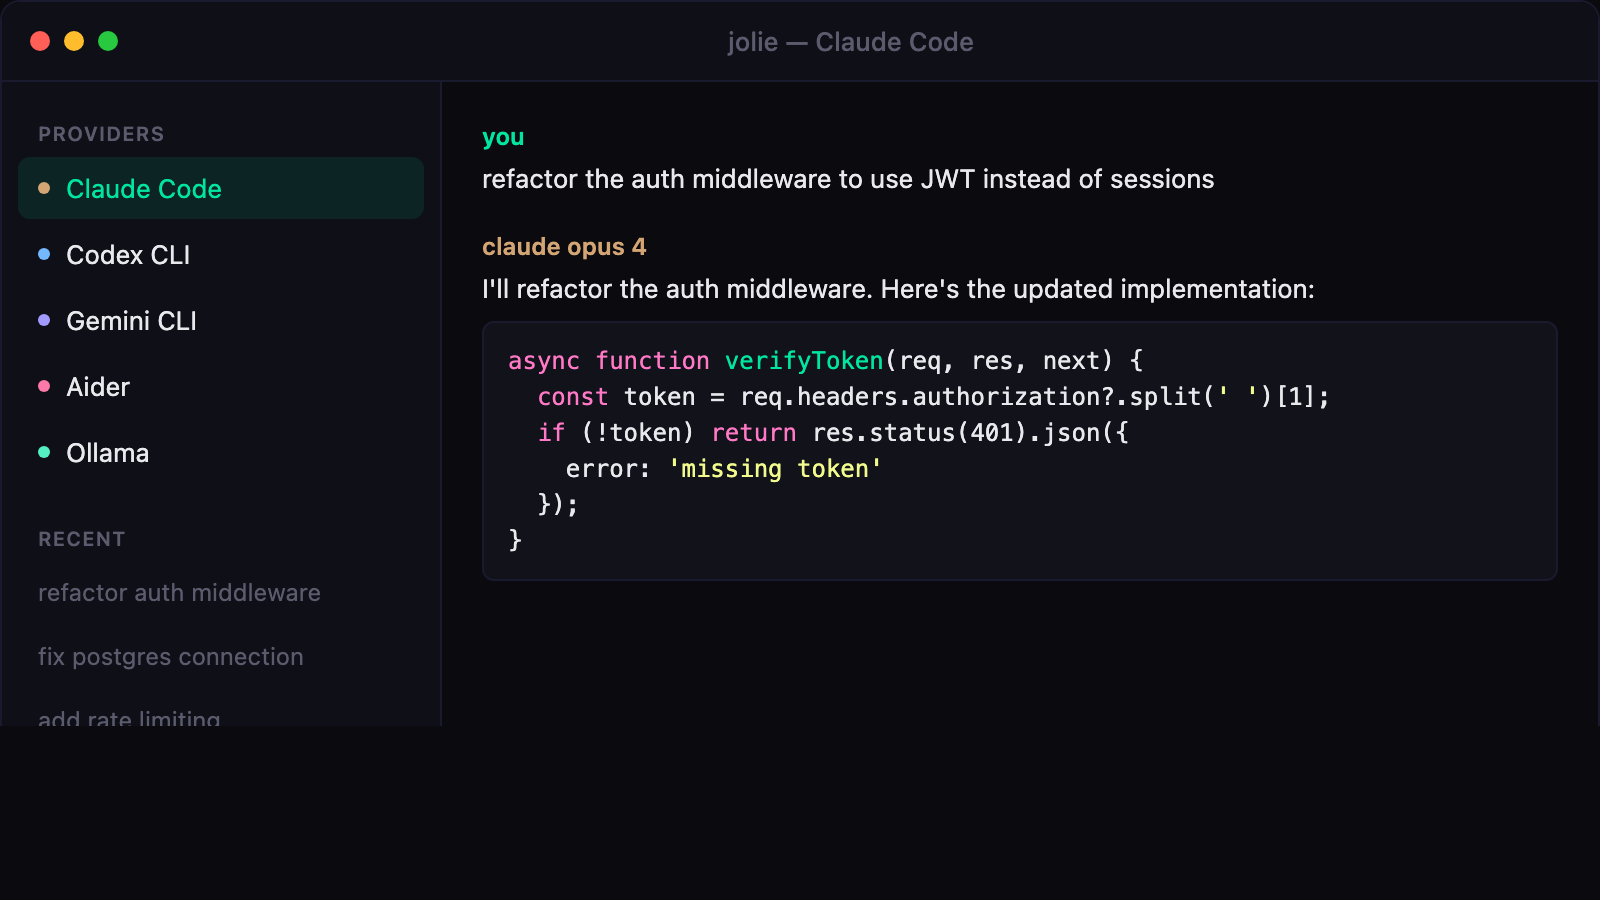
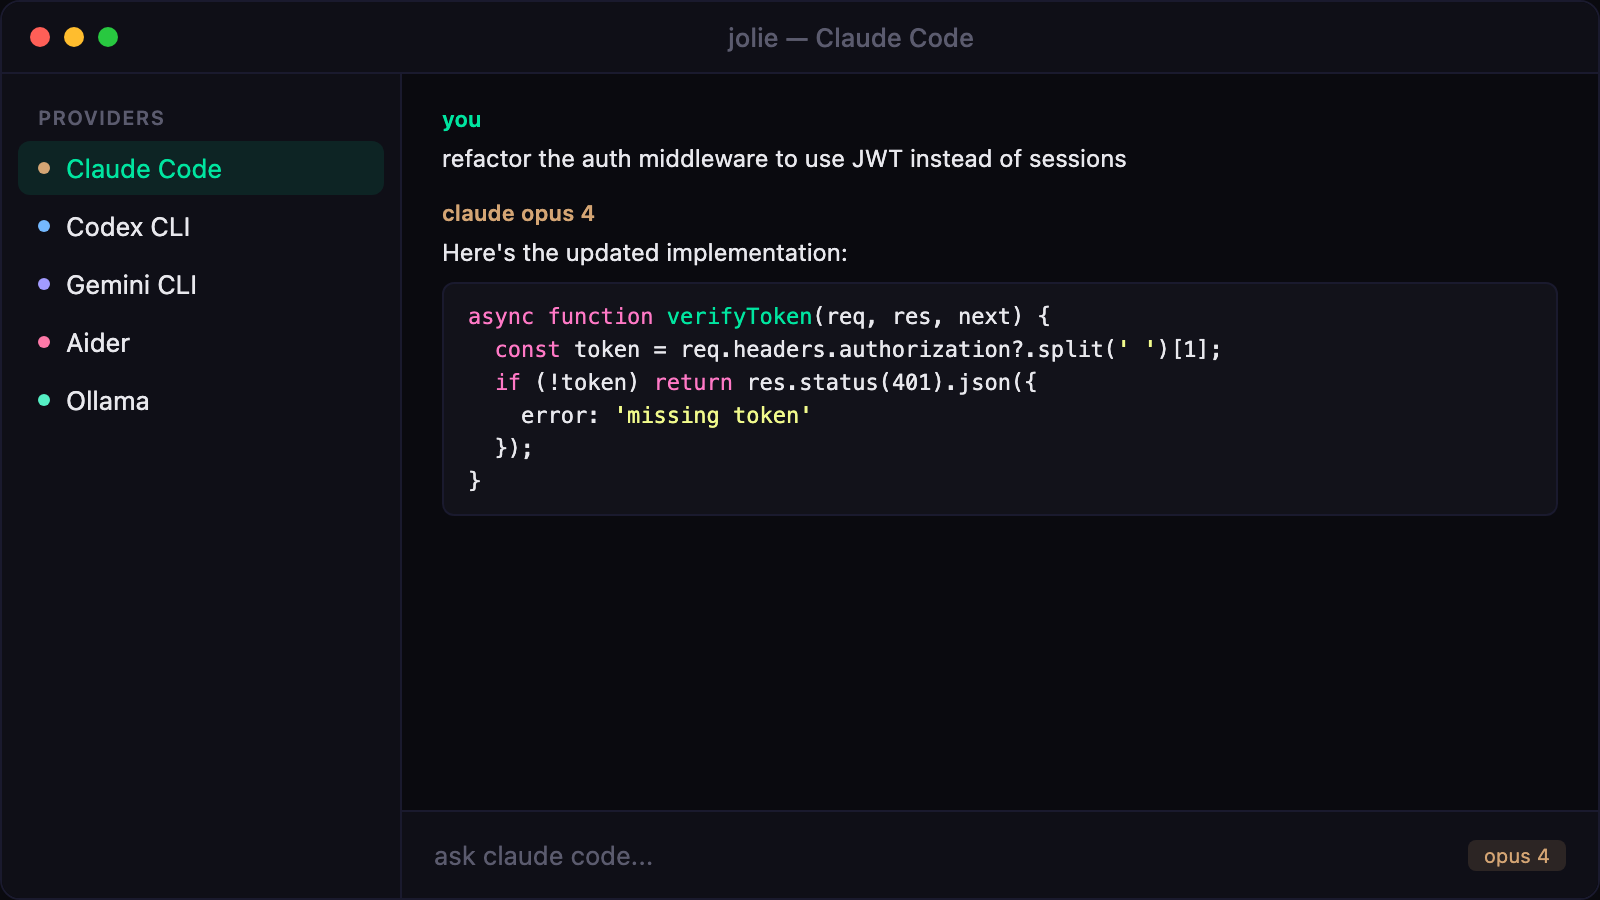
fix: tighten jolie-ai mockup to fit viewport

diff --git a/mockups/jolie-ai.html b/mockups/jolie-ai.html
@@ -2,7 +2,6 @@
 <html lang="en">
 <head>
 <meta charset="UTF-8">
-<meta name="viewport" content="width=800">
 <style>
   * { margin: 0; padding: 0; box-sizing: border-box; }
   body {
@@ -14,21 +13,21 @@
     border: 1px solid #1a1a2e; display: flex; flex-direction: column;
   }
   .titlebar {
-    height: 40px; background: #0f0f17; display: flex; align-items: center;
+    height: 36px; background: #0f0f17; display: flex; align-items: center;
     padding: 0 14px; gap: 7px; border-bottom: 1px solid #1a1a2e; flex-shrink: 0;
   }
   .dot { width: 10px; height: 10px; border-radius: 50%; }
   .dot-r { background: #ff5f57; } .dot-y { background: #ffbd2e; } .dot-g { background: #28c840; }
   .title-text { flex: 1; text-align: center; color: #5b5b6e; font-size: 13px; font-weight: 500; }
-  .content { display: flex; flex: 1; }
+  .content { display: flex; flex: 1; overflow: hidden; }
   .sidebar {
-    width: 220px; background: #0f0f17; border-right: 1px solid #1a1a2e;
-    padding: 12px 8px; display: flex; flex-direction: column; gap: 2px;
+    width: 200px; background: #0f0f17; border-right: 1px solid #1a1a2e;
+    padding: 10px 8px; display: flex; flex-direction: column; gap: 2px;
   }
-  .sidebar-section { font-size: 10px; color: #5b5b6e; font-weight: 600; letter-spacing: 0.05em; text-transform: uppercase; padding: 8px 10px 4px; }
+  .sidebar-section { font-size: 10px; color: #5b5b6e; font-weight: 600; letter-spacing: 0.05em; text-transform: uppercase; padding: 6px 10px 4px; }
   .sidebar-item {
-    padding: 8px 10px; border-radius: 6px; font-size: 13px; color: #e8e8ed;
-    cursor: pointer; display: flex; align-items: center; gap: 8px;
+    padding: 6px 10px; border-radius: 6px; font-size: 13px; color: #e8e8ed;
+    display: flex; align-items: center; gap: 8px;
   }
   .sidebar-item.active { background: rgba(0,229,160,0.1); color: #00e5a0; }
   .provider-dot { width: 6px; height: 6px; border-radius: 50%; }
@@ -37,24 +36,21 @@
   .dot-gemini { background: #a29bfe; }
   .dot-aider { background: #fd79a8; }
   .dot-ollama { background: #55efc4; }
-  .chat-area { flex: 1; display: flex; flex-direction: column; background: #0a0a0f; }
-  .chat-messages { flex: 1; padding: 20px; overflow: hidden; }
-  .message { margin-bottom: 16px; }
-  .msg-header { font-size: 12px; font-weight: 600; margin-bottom: 4px; }
-  .msg-user { color: #00e5a0; }
-  .msg-ai { color: #d4a574; }
-  .msg-body { font-size: 13px; color: #e8e8ed; line-height: 1.6; }
+  .chat-area { flex: 1; display: flex; flex-direction: column; background: #0a0a0f; overflow: hidden; }
+  .chat-messages { flex: 1; padding: 16px 20px; overflow: hidden; }
+  .message { margin-bottom: 12px; }
+  .msg-header { font-size: 11px; font-weight: 600; margin-bottom: 4px; }
+  .msg-user { color: #00e5a0; } .msg-ai { color: #d4a574; }
+  .msg-body { font-size: 12px; color: #e8e8ed; line-height: 1.5; }
   .code-block {
     background: #12121a; border: 1px solid #1a1a2e; border-radius: 6px;
-    padding: 10px 12px; font-family: 'SF Mono', monospace; font-size: 12px;
+    padding: 8px 12px; font-family: 'SF Mono', monospace; font-size: 11px;
     color: #e8e8ed; margin-top: 6px; line-height: 1.5; white-space: pre;
   }
-  .code-kw { color: #ff79c6; }
-  .code-str { color: #f1fa8c; }
-  .code-fn { color: #00e5a0; }
+  .code-kw { color: #ff79c6; } .code-str { color: #f1fa8c; } .code-fn { color: #00e5a0; }
   .input-bar {
-    height: 48px; border-top: 1px solid #1a1a2e; display: flex; align-items: center;
-    padding: 0 16px; background: #0f0f17;
+    height: 44px; border-top: 1px solid #1a1a2e; display: flex; align-items: center;
+    padding: 0 16px; background: #0f0f17; flex-shrink: 0;
   }
   .input-text { font-size: 13px; color: #5b5b6e; }
   .model-tag { font-size: 10px; padding: 2px 8px; border-radius: 4px; background: rgba(212,165,116,0.15); color: #d4a574; margin-left: auto; }
@@ -74,10 +70,6 @@
       <div class="sidebar-item"><span class="provider-dot dot-gemini"></span>Gemini CLI</div>
       <div class="sidebar-item"><span class="provider-dot dot-aider"></span>Aider</div>
       <div class="sidebar-item"><span class="provider-dot dot-ollama"></span>Ollama</div>
-      <div class="sidebar-section" style="margin-top: 12px;">Recent</div>
-      <div class="sidebar-item" style="color: #5b5b6e; font-size: 12px;">refactor auth middleware</div>
-      <div class="sidebar-item" style="color: #5b5b6e; font-size: 12px;">fix postgres connection</div>
-      <div class="sidebar-item" style="color: #5b5b6e; font-size: 12px;">add rate limiting</div>
     </div>
     <div class="chat-area">
       <div class="chat-messages">
@@ -87,7 +79,7 @@
         </div>
         <div class="message">
           <div class="msg-header msg-ai">claude opus 4</div>
-          <div class="msg-body">I'll refactor the auth middleware. Here's the updated implementation:</div>
+          <div class="msg-body">Here's the updated implementation:</div>
           <div class="code-block"><span class="code-kw">async function</span> <span class="code-fn">verifyToken</span>(req, res, next) {
   <span class="code-kw">const</span> token = req.headers.authorization?.split(<span class="code-str">' '</span>)[1];
   <span class="code-kw">if</span> (!token) <span class="code-kw">return</span> res.status(401).json({
